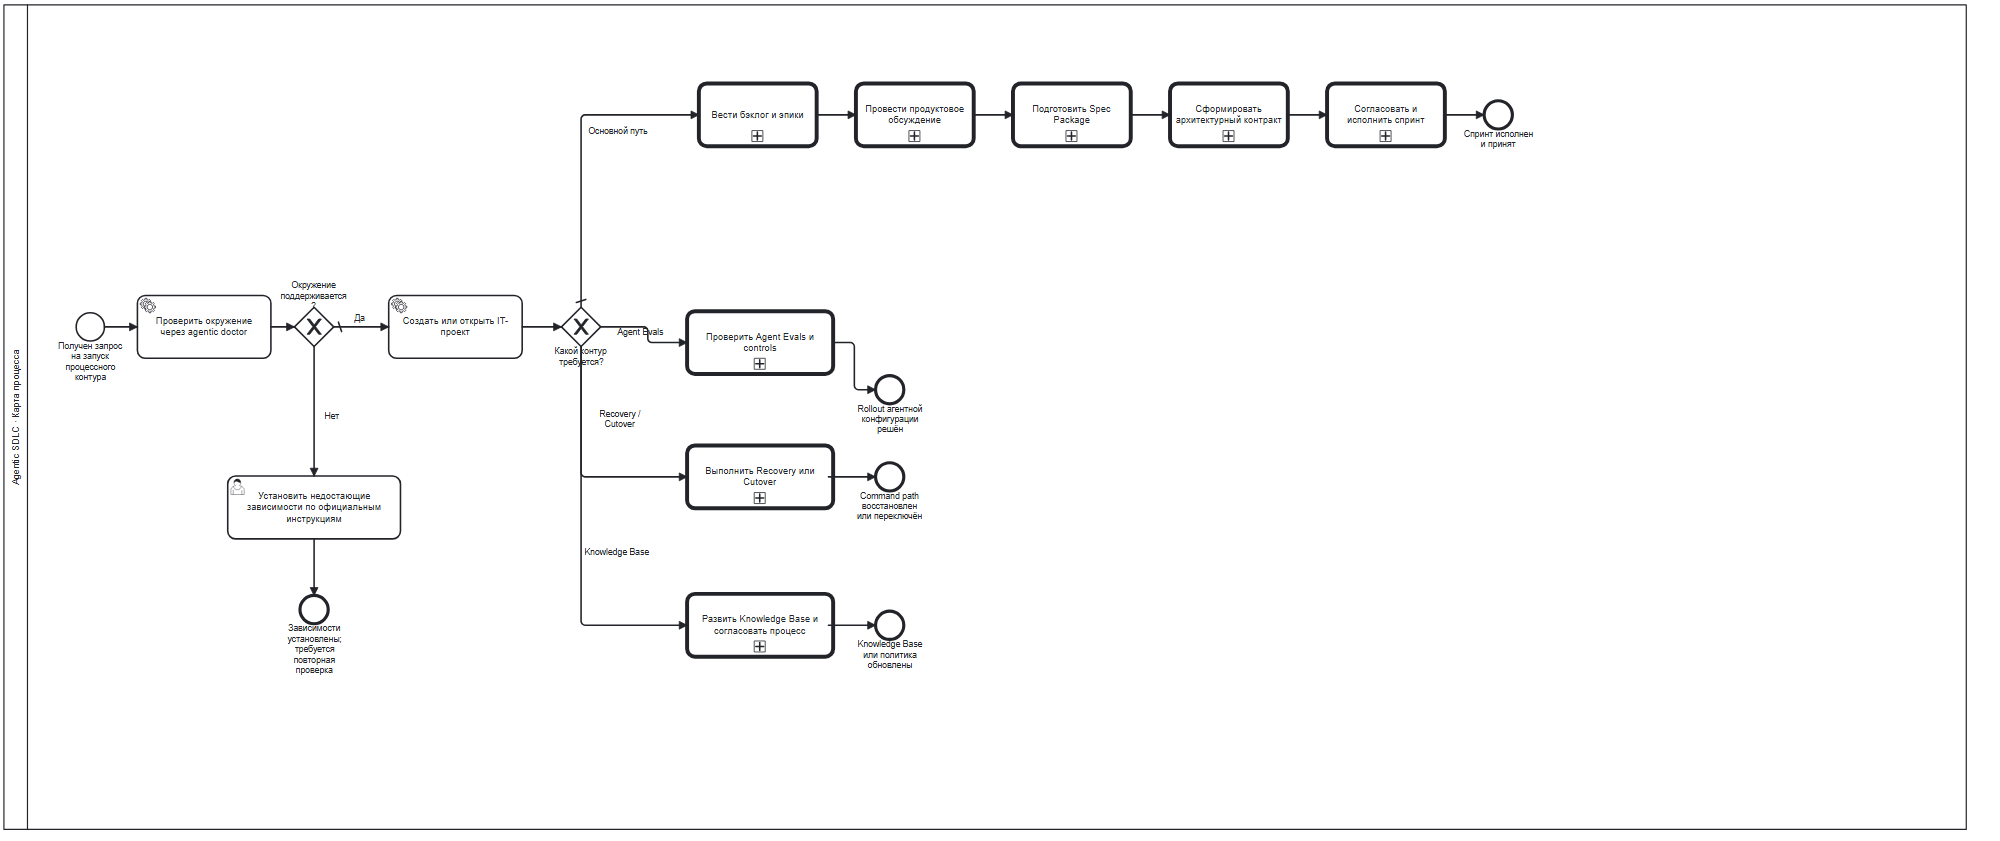
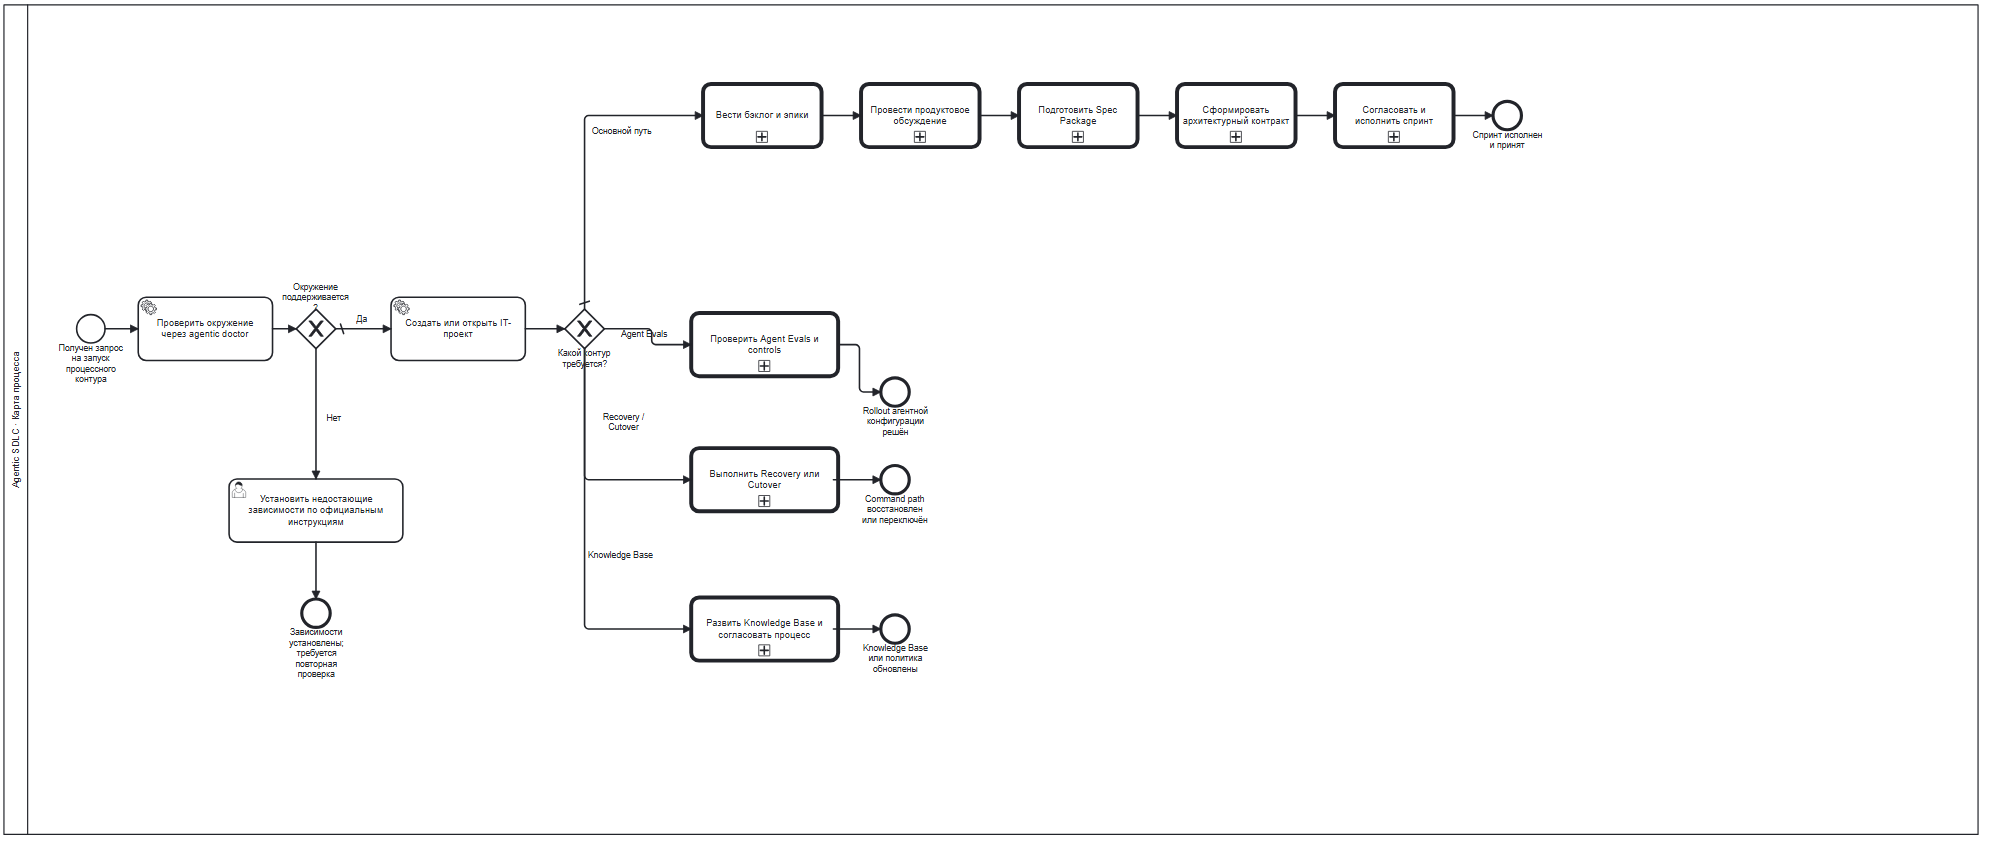
bpmn-js: уведомлять canvas.resized() после смены размера рамки, иначе схема вписывается по старому масштабу

diff --git a/index.html b/index.html
@@ -169,7 +169,13 @@ flowchart TB
     host.innerHTML = '<p style="padding:16px">Не удалось загрузить bpmn-js: ' + e.message + '</p>';
     return;
   }
-  function fit() { try { viewer.get('canvas').zoom('fit-viewport'); } catch (e) {} }
+  function fit() {
+    try {
+      var canvas = viewer.get('canvas');
+      canvas.resized();          // bpmn-js кэширует размер контейнера: без этого масштаб остаётся прежним
+      canvas.zoom('fit-viewport');
+    } catch (e) {}
+  }
   function zoomBy(step) {
     try {
       var canvas = viewer.get('canvas');

diff --git a/print.html b/print.html
@@ -53,7 +53,9 @@
       var height = Math.round(width * box.h / box.w);
       host.style.width = width + 'px';
       host.style.height = height + 'px';
-      viewer.get('canvas').zoom('fit-viewport');
+      var canvas = viewer.get('canvas');
+      canvas.resized();          // bpmn-js кэширует размер контейнера: без этого масштаб остаётся прежним
+      canvas.zoom('fit-viewport');
       document.body.setAttribute('data-size', width + 'x' + height);
       document.title = 'Схема готова';
     })
